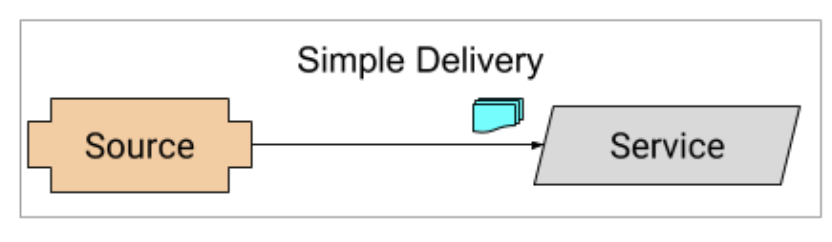
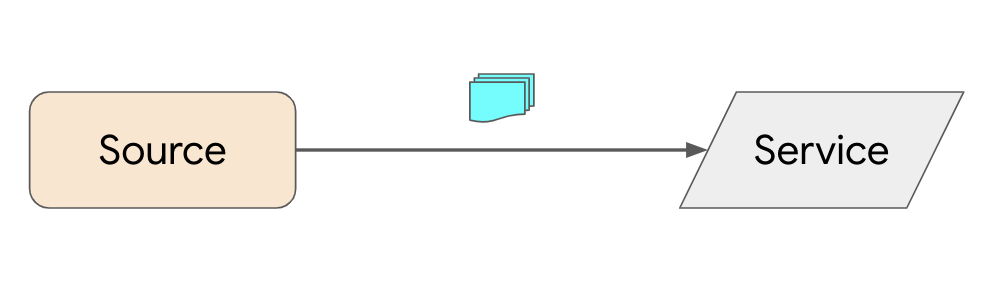
Added complex delivery samples. Fixes issue #32

Changed region(s): [[0.0, 0.0579, 1.0, 0.9256], [0.3438, 0.1736, 0.6562, 0.4339]]

diff --git a/docs/complexdelivery.md b/docs/complexdelivery.md
@@ -1,0 +1,147 @@
+# Complex Delivery
+
+In [Simple Delivery](simpledelivery.md) example, we saw how an Event Source can send a message directly to a Service. This works for 1-1 case but if you need fan out from an Event Source to multiple Services, then you need to use Channels and Subscriptions.
+
+![Complex Delivery](./images/complex-delivery.png)
+
+## Channel
+
+[Channel](https://knative.dev/docs/eventing/channels/) is the persistence and forwarding layer. Knative supports a number of [Channels](https://knative.dev/docs/eventing/channels/channels-crds/) with different persistence guarantees.
+
+For this example, we'll use InMemoryChannel which is not meant for production but ok for testing.
+
+Create a [channel.yaml](../eventing/complex/channel.yaml):
+
+```yaml
+apiVersion: messaging.knative.dev/v1alpha1
+kind: InMemoryChannel
+metadata:
+  name: channel
+```
+
+Create the InMemoryChannel:
+
+```bash
+kubectl apply -f channel.yaml
+
+inmemorychannel.messaging.knative.dev/channel created
+```
+
+## Source
+
+Knative supports a number of [Event Sources](https://knative.dev/docs/eventing/sources) to read all sorts of events into Knative.
+
+For this example, let's use CronJobSource, an in-memory Event Source that fires events based on given cron schedule:
+
+Create a [source.yaml](../eventing/complex/source.yaml):
+
+```yaml
+apiVersion: sources.eventing.knative.dev/v1alpha1
+kind: CronJobSource
+metadata:
+  name: source
+spec:
+  schedule: "* * * * *"
+  data: '{"message": "Hello world from cron!"}'
+  sink:
+    apiVersion: messaging.knative.dev/v1alpha1
+    kind: InMemoryChannel
+    name: channel
+```
+
+It sends a message every minute to an event sink, which is an InmMemoryChannel in this case.
+
+Create the source:
+
+```bash
+kubectl apply -f source.yaml
+
+cronjobsource.sources.eventing.knative.dev/source created
+```
+
+## Service
+
+Next, let's create the Kubernetes or Knative services that CronJobSource will target.
+
+Create a [service1.yaml](../eventing/complex/service1.yaml):
+
+```yaml
+apiVersion: serving.knative.dev/v1
+kind: Service
+metadata:
+  name: service1
+spec:
+  template:
+    spec:
+      containers:
+        - image: docker.io/meteatamel/event-display:v1
+```
+
+Create another [service2.yaml](../eventing/complex/service2.yaml) for the second service.
+
+These are Knative Services that simply log out received messages.
+
+Create the services:
+
+```bash
+kubectl apply -f service1.yaml -f service2.yaml
+
+service.serving.knative.dev/service1 created
+service.serving.knative.dev/service2 created
+```
+
+## Subscription
+
+Finally, connect services to the channel with subscriptions.
+
+Create a [subscription1.yaml](../eventing/complex/subscription1.yaml) file:
+
+```yaml
+apiVersion: messaging.knative.dev/v1alpha1
+kind: Subscription
+metadata:
+  name: subscription1
+spec:
+  channel:
+    apiVersion: messaging.knative.dev/v1alpha1
+    kind: InMemoryChannel
+    name: channel
+  subscriber:
+    ref:
+      apiVersion: serving.knative.dev/v1
+      kind: Service
+      name: service1
+```
+
+Create another [subscription2.yaml](../eventing/complex/subscription2.yaml) for the second subscription.
+
+Create the subscriptions:
+
+```bash
+kubectl apply -f subscription1.yaml -f subscription2.yaml
+
+subscription.messaging.knative.dev/subscription1 created
+subscription.messaging.knative.dev/subscription2 created
+```
+
+## Verify
+
+Check the running pods:
+
+```bash
+kubectl get pods
+
+NAME                                                              READY STATUS    RESTARTS   AGE
+cronjobsource-source-3c465b71-4bbe-4611-a816-a73a75cf8681-66ps5   1/1     Running   0          2m54s
+service1-x25xg-deployment-55f957448-rtljx                         2/2     Running   0          2m57s
+service2-5tpzm-deployment-58c6bcb455-vxdg                         2/2     Running   0          2m57s
+```
+
+Check the logs of the services. You should see messages from the CronJobSource in each service:
+
+```bash
+kubectl logs service-x25xg-deployment-55f957448-rtljx -c user-container
+
+info: event_display.Startup[0]
+      Event Display received event: {"message":"Hello world from cron!"}
+```
